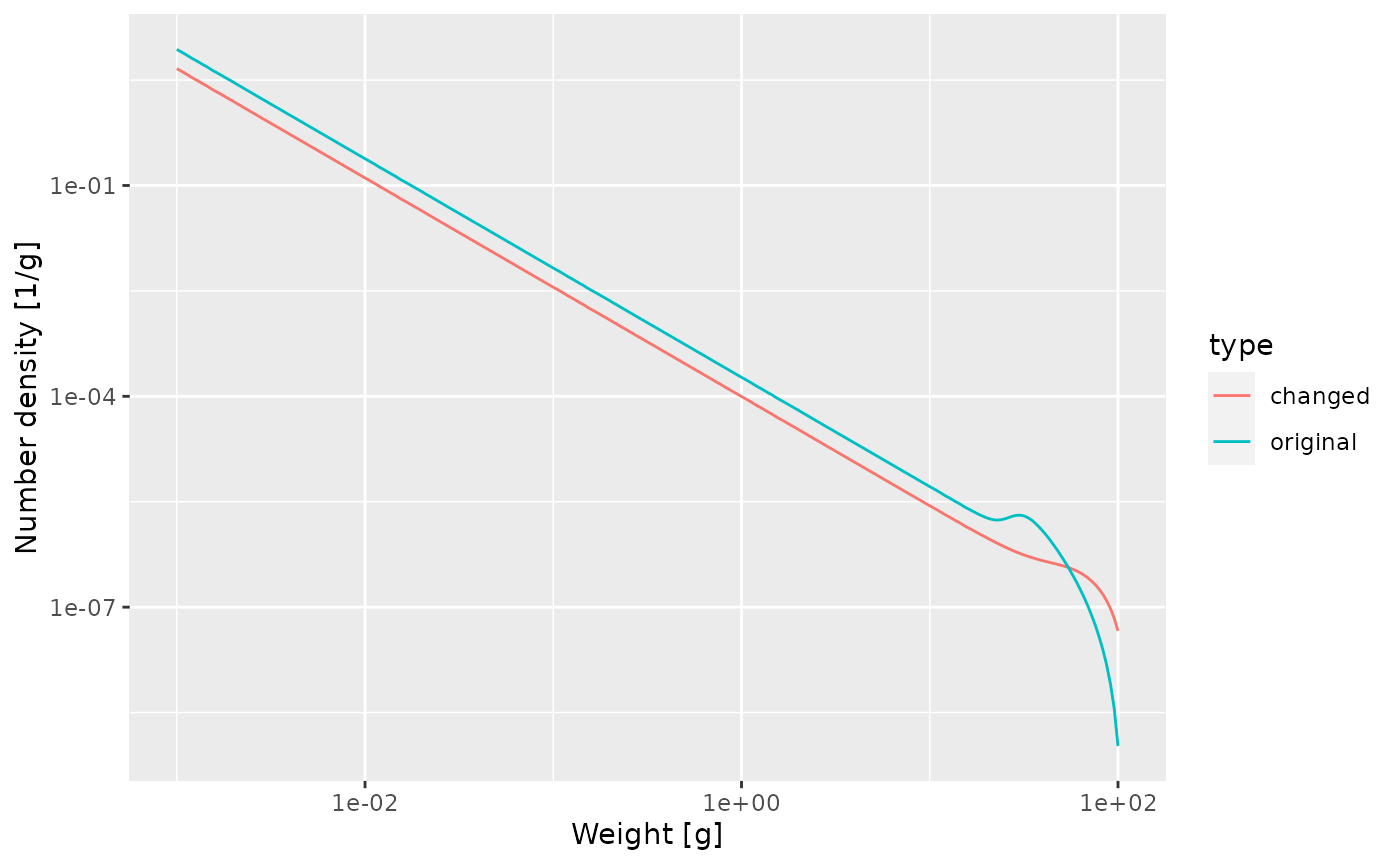
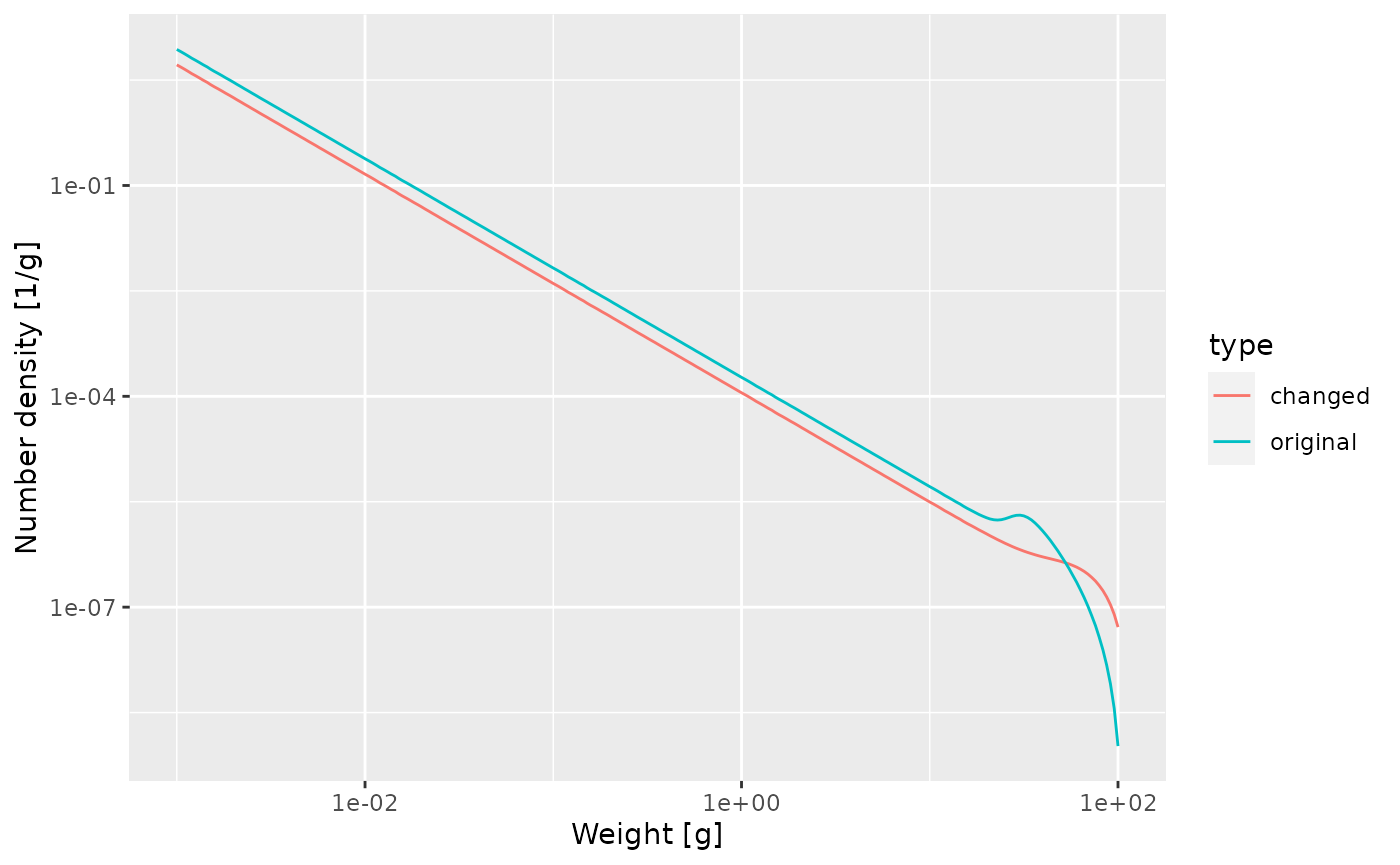
Updating website

diff --git a/docs/reference/addSpecies.html b/docs/reference/addSpecies.html
@@ -80,7 +80,7 @@ efficiencies of the new species are set so as to keep them at that low level." /
       </button>
       <span class="navbar-brand">
         <a class="navbar-link" href="../index.html">mizerExperimental</a>
-        <span class="version label label-default" data-toggle="tooltip" data-placement="bottom" title="Released version">0.1.1.9006</span>
+        <span class="version label label-default" data-toggle="tooltip" data-placement="bottom" title="Released version">2.1.0</span>
       </span>
     </div>
 
@@ -155,8 +155,8 @@ efficiencies of the new species are set so as to keep them at that low level.</p
   <span class='va'>params</span>,
   <span class='va'>species_params</span>,
   gear_params <span class='op'>=</span> <span class='fu'><a href='https://rdrr.io/r/base/data.frame.html'>data.frame</a></span><span class='op'>(</span><span class='op'>)</span>,
-  <span class='va'>interaction</span>,
-  <span class='va'>initial_effort</span>
+  <span class='va'>initial_effort</span>,
+  <span class='va'>interaction</span>
 <span class='op'>)</span></pre>
 
     <h2 class="hasAnchor" id="arguments"><a class="anchor" href="#arguments"></a>Arguments</h2>
@@ -168,8 +168,19 @@ efficiencies of the new species are set so as to keep them at that low level.</p
     </tr>
     <tr>
       <th>species_params</th>
-      <td><p>The species parameters of the new species we
-want to add to the system.</p></td>
+      <td><p>Data frame with the species parameters of the new
+species we want to add to the system.</p></td>
+    </tr>
+    <tr>
+      <th>gear_params</th>
+      <td><p>Optional data frame with the gear parameters for the new
+species.</p></td>
+    </tr>
+    <tr>
+      <th>initial_effort</th>
+      <td><p>A named vector with the effort for new fishing gear
+introduced in <code>gear_params</code>. Only needed if new gear are introduced, not
+if the new species are fished only by existing gear.</p></td>
     </tr>
     <tr>
       <th>interaction</th>
@@ -186,8 +197,16 @@ involving a new species are set to 1.</p></td>
     <p>An object of type MizerParams</p>
     <h2 class="hasAnchor" id="details"><a class="anchor" href="#details"></a>Details</h2>
 
-    <p>After adding the new species, the background species are not retuned and the
-system is not run to steady state. You would have to call
+    <p>The resulting MizerParams object will use the same size grid where possible,
+but if one of the new species needs a larger range of w (either because of
+a new species has an egg size smaller than those of existing species or
+a maximum size larger than those of existing species) then the grid will
+be expanded and all arrays will be enlarged accordingly.</p>
+<p>If any of the rate arrays had been set by the user to values other than
+those calculated as default from the species parameters, then these will
+be preserved.</p>
+<p>After adding the new species, the background species are not retuned and the
+system is not run to steady state. If you want this you would have to call
 <code><a href='retuneBackground.html'>retuneBackground()</a></code> and <code>steady()</code> explicitly.</p>
     <h2 class="hasAnchor" id="see-also"><a class="anchor" href="#see-also"></a>See also</h2>
 

diff --git a/docs/articles/single_species_size-spectrum_dynamics.html b/docs/articles/single_species_size-spectrum_dynamics.html
@@ -31,7 +31,7 @@
       </button>
       <span class="navbar-brand">
         <a class="navbar-link" href="../index.html">mizerExperimental</a>
-        <span class="version label label-default" data-toggle="tooltip" data-placement="bottom" title="Released version">0.1.1.9006</span>
+        <span class="version label label-default" data-toggle="tooltip" data-placement="bottom" title="Released version">2.1.0</span>
       </span>
     </div>
 
@@ -368,7 +368,7 @@ width of the size class. So the fish density has units of fish per gram.  -->
 <div class="sourceCode" id="cb36"><pre class="downlit sourceCode r">
 <code class="sourceCode R"><span class="fu">species_params</span><span class="op">(</span><span class="va">params</span><span class="op">)</span></code></pre></div>
 <pre><code>##   species w_min w_inf    w_mat w_min_idx k_vb ks beta sigma z0 alpha    erepro
-## 1       1 0.001   100 25.11886         1    1  4  100   1.3  0   0.4 0.2036643
+## 1       1 0.001   100 25.11886         1    1  4  100   1.3  0   0.4 0.2715524
 ##   interaction_resource    n    p   q pred_kernel_type       h k    gamma
 ## 1                    1 0.75 0.75 0.8        lognormal 51.6855 0 3686.147
 ##    w_mat25 m    R_max constant_reproduction
@@ -447,11 +447,11 @@ width of the size class. So the fish density has units of fish per gram.  -->
 <p>In order for the population to be at steady state, the reproductive efficiency has to have a particular value. If it were higher, the population would increase, if it was lower, the population would decrease with time. The <code>steady()</code> function has set the reproductive efficiency to just the right value and has stored it in the <code>erepro</code> species parameter.</p>
 <div class="sourceCode" id="cb50"><pre class="downlit sourceCode r">
 <code class="sourceCode R"><span class="fu">species_params</span><span class="op">(</span><span class="va">params</span><span class="op">)</span><span class="op">$</span><span class="va">erepro</span></code></pre></div>
-<pre><code>## [1] 0.2036643</code></pre>
+<pre><code>## [1] 0.2715524</code></pre>
 <p>The model with the changed maturity curve leads to a different rate of investment into reproduction and thus needs a slightly different reproductive efficiency to remain at steady state:</p>
 <div class="sourceCode" id="cb52"><pre class="downlit sourceCode r">
 <code class="sourceCode R"><span class="fu">species_params</span><span class="op">(</span><span class="va">params_changed_maturity</span><span class="op">)</span><span class="op">$</span><span class="va">erepro</span></code></pre></div>
-<pre><code>## [1] 0.1915721</code></pre>
+<pre><code>## [1] 0.2554301</code></pre>
 <p>This is the reproductive efficiency at steady state. When the population deviates from the steady state, for example due to a change in fishing, the reproductive efficiency can be set to change according to a Beverton-Holt stock-recruitment curve. We will discuss this again later.</p>
 </div>
 </div>

diff --git a/docs/index.html b/docs/index.html
@@ -34,7 +34,7 @@
       </button>
       <span class="navbar-brand">
         <a class="navbar-link" href="index.html">mizerExperimental</a>
-        <span class="version label label-default" data-toggle="tooltip" data-placement="bottom" title="Released version">0.1.1.9006</span>
+        <span class="version label label-default" data-toggle="tooltip" data-placement="bottom" title="Released version">2.1.0</span>
       </span>
     </div>
 
@@ -115,14 +115,11 @@
 <h2 class="hasAnchor">
 <a href="#features" class="anchor"></a>Features</h2>
 <ul>
-<li><p>Functions and a shiny app for interactively tuning parameters.</p></li>
-<li><p>New function <code>projectToSteady()</code> to run dynamics until close to steady state.</p></li>
-<li><p>A function for keeping egg densities constant.</p></li>
+<li><p>Functions and a shiny app for interactively tuning parameters, started with <code><a href="reference/tuneParams.html">tuneParams()</a></code>.</p></li>
 <li><p><code><a href="reference/getYieldVsF.html">getYieldVsF()</a></code> and <code><a href="reference/plotYieldVsF.html">plotYieldVsF()</a></code> for calculating and plotting yield curve.</p></li>
 <li><p>Animated plot of mizer simulation with <code><a href="reference/animateSpectra.html">animateSpectra()</a></code></p></li>
 <li><p>Showing two plots side-by-side with the same axes and the same legend. This is made possible for some of the plots via the <code><a href="reference/displayFrames.html">displayFrames()</a></code> function.</p></li>
 <li><p>New wrapper function <code><a href="reference/newSheldonParams.html">newSheldonParams()</a></code> that sets up a single species in a power-law background.</p></li>
-<li><p>New function <code><a href="reference/customFunction.html">customFunction()</a></code> to allow users to overwrite mizer functions.</p></li>
 </ul>
 </div>
 </div>

diff --git a/docs/news/index.html b/docs/news/index.html
@@ -71,7 +71,7 @@
       </button>
       <span class="navbar-brand">
         <a class="navbar-link" href="../index.html">mizerExperimental</a>
-        <span class="version label label-default" data-toggle="tooltip" data-placement="bottom" title="Released version">0.1.1.9006</span>
+        <span class="version label label-default" data-toggle="tooltip" data-placement="bottom" title="Released version">2.1.0</span>
       </span>
     </div>
 
@@ -129,14 +129,13 @@
       <small>Source: <a href='https://github.com/sizespectrum/mizerExperimental/blob/master/NEWS.md'><code>NEWS.md</code></a></small>
     </div>
 
-    <div id="mizerexperimental-0119005" class="section level1">
-<h1 class="page-header" data-toc-text="0.1.1.9005">
-<a href="#mizerexperimental-0119005" class="anchor"></a>mizerExperimental 0.1.1.9005</h1>
+    <div id="mizerexperimental-012" class="section level1">
+<h1 class="page-header" data-toc-text="0.1.2">
+<a href="#mizerexperimental-012" class="anchor"></a>mizerExperimental 0.1.2</h1>
 <ul>
+<li>Graduated <code>projectToSteady()</code>, <code>constantEggRDI()</code>, <code>customFunction()</code> and <code>compareParams()</code> to mizer package.</li>
 <li>Added a <code>NEWS.md</code> file to track changes to the package.</li>
-<li>Added <code><a href="../reference/constantEggRDI.html">constantEggRDI()</a></code> to allow keeping egg densities fixed.</li>
 <li>Vignette explaining size-spectrum dynamics in single-species example.</li>
-<li>New function <code><a href="../reference/customFunction.html">customFunction()</a></code> to allow users to overwrite mizer functions.</li>
 <li>
 <code><a href="../reference/removeSpecies.html">removeSpecies()</a></code> work also with 3d pred kernel.</li>
 <li>

diff --git a/docs/articles/first_multispecies_model.html b/docs/articles/first_multispecies_model.html
@@ -31,7 +31,7 @@
       </button>
       <span class="navbar-brand">
         <a class="navbar-link" href="../index.html">mizerExperimental</a>
-        <span class="version label label-default" data-toggle="tooltip" data-placement="bottom" title="Released version">0.1.1.9006</span>
+        <span class="version label label-default" data-toggle="tooltip" data-placement="bottom" title="Released version">2.1.0</span>
       </span>
     </div>
 
@@ -147,8 +147,7 @@
 <p>We can now add Hake to our existing model with the <code><a href="../reference/addSpecies.html">addSpecies()</a></code> function.</p>
 <div class="sourceCode" id="cb8"><pre class="downlit sourceCode r">
 <code class="sourceCode R"><span class="va">params</span> <span class="op">&lt;-</span> <span class="fu"><a href="../reference/addSpecies.html">addSpecies</a></span><span class="op">(</span><span class="va">params_background</span>,
-                     <span class="va">species_params</span>,
-                     initial_effort <span class="op">=</span> <span class="fu"><a href="https://rdrr.io/r/base/c.html">c</a></span><span class="op">(</span>knife_edge_gear <span class="op">=</span> <span class="fl">1</span><span class="op">)</span><span class="op">)</span> <span class="op">%&gt;%</span> 
+                     <span class="va">species_params</span><span class="op">)</span> <span class="op">%&gt;%</span> 
     <span class="fu">steady</span><span class="op">(</span><span class="op">)</span></code></pre></div>
 <pre><code>## Note: No h provided for some species, so using f0 and k_vb to calculate it.</code></pre>
 <pre><code>## Note: Because you have n != p, the default value is not very good.</code></pre>

diff --git a/docs/reference/index.html b/docs/reference/index.html
@@ -71,7 +71,7 @@
       </button>
       <span class="navbar-brand">
         <a class="navbar-link" href="../index.html">mizerExperimental</a>
-        <span class="version label label-default" data-toggle="tooltip" data-placement="bottom" title="Released version">0.1.1.9006</span>
+        <span class="version label label-default" data-toggle="tooltip" data-placement="bottom" title="Released version">2.1.0</span>
       </span>
     </div>
 
@@ -154,12 +154,6 @@
           <p><code><a href="newSheldonParams.html">newSheldonParams()</a></code> </p>
         </td>
         <td><p>Set up parameters for a single species in a Sheldon power-law background</p></td>
-      </tr><tr>
-        
-        <td>
-          <p><code><a href="constantEggRDI.html">constantEggRDI()</a></code> </p>
-        </td>
-        <td><p>Choose egg production to keep egg density constant</p></td>
       </tr>
     </tbody><tbody>
       <tr>
@@ -283,25 +277,6 @@ ready for ggplot2</p></td>
           <p><code><a href="pruneSpecies.html">pruneSpecies()</a></code> </p>
         </td>
         <td><p>Removes species with abundance below a threshold</p></td>
-      </tr>
-    </tbody><tbody>
-      <tr>
-        <th colspan="2">
-          <h2 id="section-others" class="hasAnchor"><a href="#section-others" class="anchor"></a>Others</h2>
-          <p class="section-desc"></p>
-        </th>
-      </tr>
-      
-      
-    </tbody><tbody>
-      
-      
-      <tr>
-        
-        <td>
-          <p><code><a href="customFunction.html">customFunction()</a></code> </p>
-        </td>
-        <td><p>Replace a mizer function with a custom version</p></td>
       </tr>
     </tbody>
     </table>

diff --git a/docs/reference/markBackground.html b/docs/reference/markBackground.html
@@ -73,7 +73,7 @@
       </button>
       <span class="navbar-brand">
         <a class="navbar-link" href="../index.html">mizerExperimental</a>
-        <span class="version label label-default" data-toggle="tooltip" data-placement="bottom" title="Released version">0.1.1.9006</span>
+        <span class="version label label-default" data-toggle="tooltip" data-placement="bottom" title="Released version">2.1.0</span>
       </span>
     </div>
 
@@ -137,7 +137,7 @@
 `<a href='https://lifecycle.r-lib.org/articles/stages.html#experimental'><img src='figures/lifecycle-experimental.svg' alt='[Experimental]' /></a></p>
     </div>
 
-    <pre class="usage"><span class='fu'>markBackground</span><span class='op'>(</span><span class='va'>object</span>, <span class='va'>species</span><span class='op'>)</span></pre>
+    <pre class="usage"><span class='fu'>markBackground</span><span class='op'>(</span><span class='va'>object</span>, species <span class='op'>=</span> <span class='cn'>NULL</span><span class='op'>)</span></pre>
 
     <h2 class="hasAnchor" id="arguments"><a class="anchor" href="#arguments"></a>Arguments</h2>
     <table class="ref-arguments">
@@ -149,8 +149,10 @@ MizerSim.</p></td>
     </tr>
     <tr>
       <th>species</th>
-      <td><p>Name or vector of names of the species to be designated as
-background species. By default this is set to all species.</p></td>
+      <td><p>The species to be selected. Optional. By default all target
+species are selected. A vector of species names, or a
+numeric vector with the species indices, or a logical vector indicating for
+each species whether it is to be selected (TRUE) or not.</p></td>
     </tr>
     </table>
 

diff --git a/docs/reference/removeSpecies.html b/docs/reference/removeSpecies.html
@@ -75,7 +75,7 @@ the remaining species or retune their reproductive efficiency." />
       </button>
       <span class="navbar-brand">
         <a class="navbar-link" href="../index.html">mizerExperimental</a>
-        <span class="version label label-default" data-toggle="tooltip" data-placement="bottom" title="Released version">0.1.1.9006</span>
+        <span class="version label label-default" data-toggle="tooltip" data-placement="bottom" title="Released version">2.1.0</span>
       </span>
     </div>
 
@@ -152,9 +152,10 @@ the remaining species or retune their reproductive efficiency.</p>
     </tr>
     <tr>
       <th>species</th>
-      <td><p>A vector of the names of the species to be deleted or a boolean
-vector indicating for each species whether it is to be removed (TRUE) or
-not.</p></td>
+      <td><p>The species to be selected. Optional. By default all target
+species are selected. A vector of species names, or a
+numeric vector with the species indices, or a logical vector indicating for
+each species whether it is to be selected (TRUE) or not.</p></td>
     </tr>
     </table>
 

diff --git a/docs/reference/mizerExperimental-package.html b/docs/reference/mizerExperimental-package.html
@@ -81,7 +81,7 @@ and we'll comment on how it can be included in this package." />
       </button>
       <span class="navbar-brand">
         <a class="navbar-link" href="../index.html">mizerExperimental</a>
-        <span class="version label label-default" data-toggle="tooltip" data-placement="bottom" title="Released version">0.1.1.9006</span>
+        <span class="version label label-default" data-toggle="tooltip" data-placement="bottom" title="Released version">2.1.0</span>
       </span>
     </div>
 

diff --git a/docs/reference/renameSpecies.html b/docs/reference/renameSpecies.html
@@ -73,7 +73,7 @@ Changes the names of species in a MizerParams object" />
       </button>
       <span class="navbar-brand">
         <a class="navbar-link" href="../index.html">mizerExperimental</a>
-        <span class="version label label-default" data-toggle="tooltip" data-placement="bottom" title="Released version">0.1.1.9006</span>
+        <span class="version label label-default" data-toggle="tooltip" data-placement="bottom" title="Released version">2.1.0</span>
       </span>
     </div>
 

diff --git a/docs/reference/newSheldonParams.html b/docs/reference/newSheldonParams.html
@@ -80,7 +80,7 @@ many arguments, all of which have default values." />
       </button>
       <span class="navbar-brand">
         <a class="navbar-link" href="../index.html">mizerExperimental</a>
-        <span class="version label label-default" data-toggle="tooltip" data-placement="bottom" title="Released version">0.1.1.9006</span>
+        <span class="version label label-default" data-toggle="tooltip" data-placement="bottom" title="Released version">2.1.0</span>
       </span>
     </div>
 

diff --git a/docs/reference/tuneParams.html b/docs/reference/tuneParams.html
@@ -75,7 +75,7 @@ with tabs for various diagnostic plots." />
       </button>
       <span class="navbar-brand">
         <a class="navbar-link" href="../index.html">mizerExperimental</a>
-        <span class="version label label-default" data-toggle="tooltip" data-placement="bottom" title="Released version">0.1.1.9006</span>
+        <span class="version label label-default" data-toggle="tooltip" data-placement="bottom" title="Released version">2.1.0</span>
       </span>
     </div>
 
